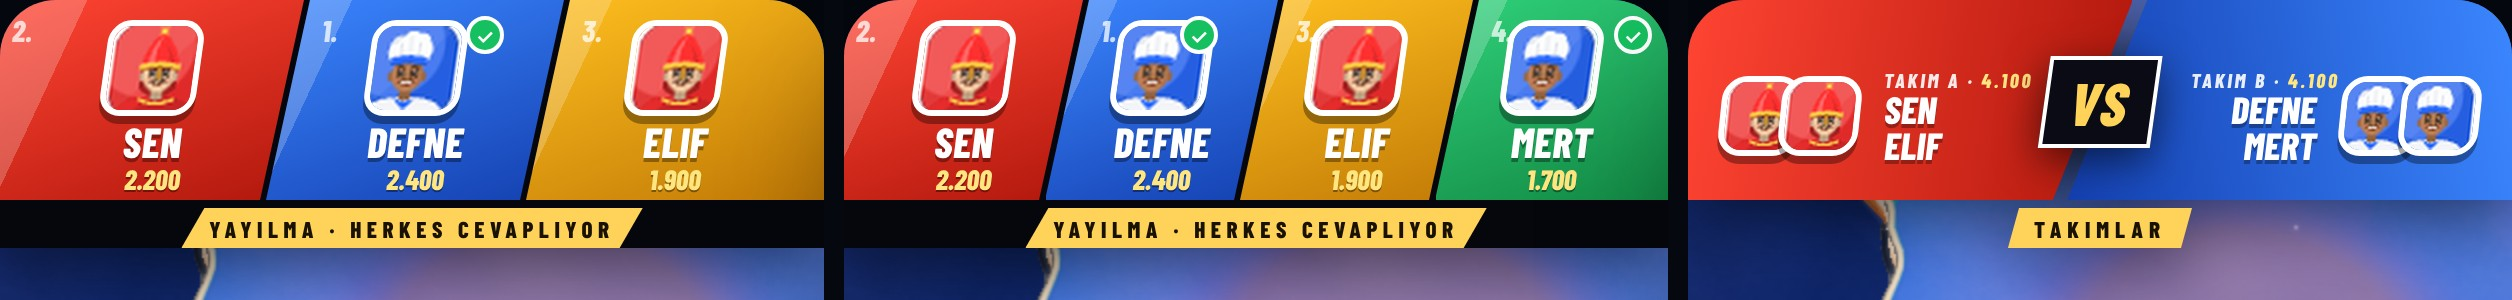
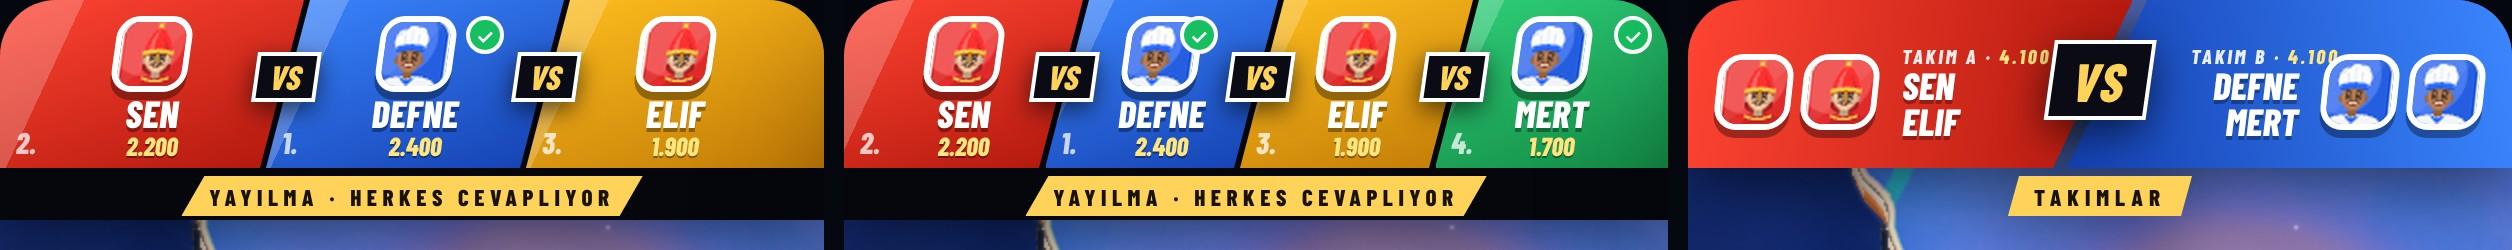
Fetih Ligi: afişler alçaldı, çok oyunculuda birleşimlerde VS, eşlide avatarlar binmez
Claude-Session: https://claude.ai/code/session_01Bviiots2u7G4hsmVt9v3vh

diff --git a/game/fetih/ref/tasarim-v14-yonler.py b/game/fetih/ref/tasarim-v14-yonler.py
@@ -144,17 +144,17 @@ def B():
 
 # ------------------------------------------------------------------ C · ARENA (v3: esnek yerleşim)
 C_CSS = """
-.c .ban{position:absolute;left:0;right:0;top:0;height:124px;filter:drop-shadow(0 8px 18px rgba(0,0,0,.55))}
-.c .sd{position:absolute;top:0;height:100px;width:54%;display:flex;align-items:center;gap:11px;padding:16px 16px 0}
+.c .ban{position:absolute;left:0;right:0;top:0;height:110px;filter:drop-shadow(0 8px 18px rgba(0,0,0,.55))}
+.c .sd{position:absolute;top:0;height:84px;width:54%;display:flex;align-items:center;gap:10px;padding:8px 14px 0}
 .c .sd.l{left:0;padding-right:66px;background:linear-gradient(100deg,#ff4433,#b0170c);clip-path:polygon(0 0,100% 0,82% 100%,0 100%)}
 .c .sd.r{right:0;padding-left:66px;justify-content:flex-end;flex-direction:row-reverse;background:linear-gradient(260deg,#3b86ff,#1440b0);clip-path:polygon(18% 0,100% 0,100% 100%,0 100%);text-align:right}
-.c .sd img{width:56px;height:56px;border-radius:12px;border:3px solid #fff;transform:skewX(-6deg);box-shadow:0 4px 0 rgba(0,0,0,.35)}
+.c .sd img{width:48px;height:48px;border-radius:12px;border:3px solid #fff;transform:skewX(-6deg);box-shadow:0 4px 0 rgba(0,0,0,.35)}
 .c .sd small{display:block;font:italic 800 11px 'Barlow Condensed';letter-spacing:.22em;color:rgba(255,255,255,.9)}
-.c .sd b{display:block;font:italic 800 32px/0.95 'Barlow Condensed';text-transform:uppercase;text-shadow:0 2px 0 rgba(0,0,0,.3)}
+.c .sd b{display:block;font:italic 800 28px/0.95 'Barlow Condensed';text-transform:uppercase;text-shadow:0 2px 0 rgba(0,0,0,.3)}
 .c .sd em{display:block;font:italic 800 16px 'Barlow Condensed';color:#ffe680;text-shadow:0 1px 0 rgba(0,0,0,.4)}
-.c .vs{position:absolute;left:50%;top:28px;z-index:2;transform:translateX(-50%) skewX(-8deg);padding:3px 11px;background:#0a0b14;border:2.5px solid #fff;font:italic 800 30px 'Barlow Condensed';letter-spacing:.04em;color:#ffd25a;box-shadow:0 6px 20px rgba(0,0,0,.6)}
-.c .tg{position:absolute;left:50%;top:104px;transform:translateX(-50%);padding:3px 13px;background:#ffd25a;color:#1a1200;font:800 11.5px 'Barlow Condensed';letter-spacing:.26em;clip-path:polygon(6% 0,100% 0,94% 100%,0 100%)}
-.c .ok{position:absolute;right:14px;top:106px;padding:3px 9px;background:#16c060;color:#04210f;font:italic 800 11.5px 'Barlow Condensed';letter-spacing:.14em;clip-path:polygon(8% 0,100% 0,92% 100%,0 100%)}
+.c .vs{position:absolute;left:50%;top:20px;z-index:2;transform:translateX(-50%) skewX(-8deg);padding:2px 10px;background:#0a0b14;border:2.5px solid #fff;font:italic 800 27px 'Barlow Condensed';letter-spacing:.04em;color:#ffd25a;box-shadow:0 6px 20px rgba(0,0,0,.6)}
+.c .tg{position:absolute;left:50%;top:88px;transform:translateX(-50%);padding:3px 13px;background:#ffd25a;color:#1a1200;font:800 11.5px 'Barlow Condensed';letter-spacing:.26em;clip-path:polygon(6% 0,100% 0,94% 100%,0 100%)}
+.c .ok{position:absolute;right:14px;top:90px;padding:3px 9px;background:#16c060;color:#04210f;font:italic 800 11.5px 'Barlow Condensed';letter-spacing:.14em;clip-path:polygon(8% 0,100% 0,92% 100%,0 100%)}
 /* panel: içeriği kadar yüksek, alttan büyür; üstünde yumuşak gölge geçişi (harita kesilmez) */
 .c .box{position:absolute;left:0;right:0;bottom:0;padding:62px 12px 14px;background:linear-gradient(180deg,rgba(7,8,15,0),rgba(7,8,15,.9) 46px,#07080f 70px)}
 .c .hd{display:flex;align-items:center;gap:10px}
@@ -188,15 +188,17 @@ C_CSS = """
 
 /* çok oyunculu afiş (v2, sinematik): eğik paneller, aralarında koyu çizik, büyük eğik avatar ve isim */
 .c .ban.m{background:#06070d}
-.c .ban.m .sg{position:absolute;top:0;height:100px;display:flex;flex-direction:column;align-items:center;justify-content:center;gap:2px;padding-top:6px;
+.c .ban.m .sg{position:absolute;top:0;height:84px;display:flex;flex-direction:column;align-items:center;justify-content:center;gap:1px;padding-top:4px;
   background:linear-gradient(160deg,var(--c1),var(--c2));clip-path:polygon(var(--l) 0,100% 0,calc(100% - var(--r)) 100%,0 100%)}
 .c .ban.m .sg::before{content:'';position:absolute;inset:0;background:linear-gradient(115deg,rgba(255,255,255,.22) 0 22%,rgba(255,255,255,0) 22% 100%);pointer-events:none}
-.c .ban.m .sg img{width:48px;height:48px;border-radius:11px;border:3px solid #fff;box-shadow:0 4px 0 rgba(0,0,0,.35);transform:skewX(-8deg)}
-.c .ban.m .sg b{font:italic 800 21px/1 'Barlow Condensed';text-transform:uppercase;letter-spacing:.01em;text-shadow:0 2px 0 rgba(0,0,0,.35)}
-.c .ban.m .sg em{font:italic 800 14px/1 'Barlow Condensed';color:#ffe680;text-shadow:0 1px 0 rgba(0,0,0,.4)}
+.c .ban.m .sg img{width:38px;height:38px;border-radius:11px;border:3px solid #fff;box-shadow:0 4px 0 rgba(0,0,0,.35);transform:skewX(-8deg)}
+.c .ban.m .sg b{font:italic 800 19px/1 'Barlow Condensed';text-transform:uppercase;letter-spacing:.01em;text-shadow:0 2px 0 rgba(0,0,0,.35)}
+.c .ban.m .sg em{font:italic 800 13px/1 'Barlow Condensed';color:#ffe680;text-shadow:0 1px 0 rgba(0,0,0,.4)}
 .c .ban.m .sg .st{position:absolute;top:8px;right:calc(var(--r) + 8px);width:19px;height:19px;border-radius:50%;background:#16c060;border:2px solid #fff;display:grid;place-items:center;font:800 10px Manrope;color:#fff}
-.c .ban.m .sg .rk{position:absolute;top:6px;left:calc(var(--l) + 6px);font:italic 800 15px 'Barlow Condensed';color:rgba(255,255,255,.75)}
-.c .ban.m .lb{position:absolute;left:50%;top:104px;transform:translateX(-50%);padding:3px 14px;background:#ffd25a;color:#1a1200;font:800 11.5px 'Barlow Condensed';letter-spacing:.24em;white-space:nowrap;clip-path:polygon(5% 0,100% 0,95% 100%,0 100%)}
+.c .ban.m .sg .rk{position:absolute;bottom:4px;left:8px;font:italic 800 15px 'Barlow Condensed';color:rgba(255,255,255,.75)}
+.c .ban.m .lb{position:absolute;left:50%;top:88px;transform:translateX(-50%);padding:3px 14px;background:#ffd25a;color:#1a1200;font:800 11.5px 'Barlow Condensed';letter-spacing:.24em;white-space:nowrap;clip-path:polygon(5% 0,100% 0,95% 100%,0 100%)}
+/* birleşimlerdeki VS rozetleri */
+.c .ban.m .vx{position:absolute;top:26px;z-index:3;transform:translateX(-50%) skewX(-8deg);padding:1px 6px;background:#0a0b14;border:2px solid #fff;font:italic 800 17px/1.1 'Barlow Condensed';color:#ffd25a;box-shadow:0 4px 12px rgba(0,0,0,.6)}
 /* eşli: düello gibi iki yarı, her yarıda iki avatar */
 .c .ban.t .sd{gap:12px}
 .c .ban.t .sd .two{display:flex}
@@ -206,7 +208,8 @@ C_CSS = """
 .c .ban.t .sd b{font-size:19px;line-height:.95;white-space:nowrap}
 .c .ban.t .sd small{font-size:10px;letter-spacing:.14em;white-space:nowrap}
 .c .ban.t .sd small i{font-style:italic;color:#ffe680}
-.c .ban.t .sd .two img{width:40px;height:40px;margin-right:-10px}
+.c .ban.t .sd .two{gap:5px}
+.c .ban.t .sd .two img{width:38px;height:38px;margin:0!important}
 .c .ban.t .sd.r .two img{margin-left:-10px;margin-right:0}
 .c .ban.t .sd.l .two img:last-child{margin-right:0}
 .c .ban.t .sd.r .two img:first-child{margin-left:0}
@@ -253,7 +256,8 @@ def M(n=3, team=False, stack=0):
             r = 0 if j == n - 1 else S
             ok = '<span class="st">✓</span>' if j in (1, 3) else ''
             segs += f'<div class="sg" style="left:{left + (3 if j else 0):.1f}px;width:{w - (3 if j else 0):.1f}px;--l:{l}px;--r:{r}px;--c1:{c1};--c2:{c2}"><span class="rk">{rank.index(j) + 1}.</span><img src="{av}"><b>{nm}</b><em>{sc}</em>{ok}</div>'
-        ban = f'<div class="ban m">{segs}<div class="lb">YAYILMA · HERKES CEVAPLIYOR</div></div>'
+        vx = ''.join(f'<span class="vx" style="left:{j * (w - S) + S / 2 + 1.5:.1f}px">VS</span>' for j in range(1, n))
+        ban = f'<div class="ban m">{segs}{vx}<div class="lb">YAYILMA · HERKES CEVAPLIYOR</div></div>'
     html = C()
     html = html[:html.index('<div class="ban">')] + ban + html[html.index('<div class="box">'):]
     if stack:
